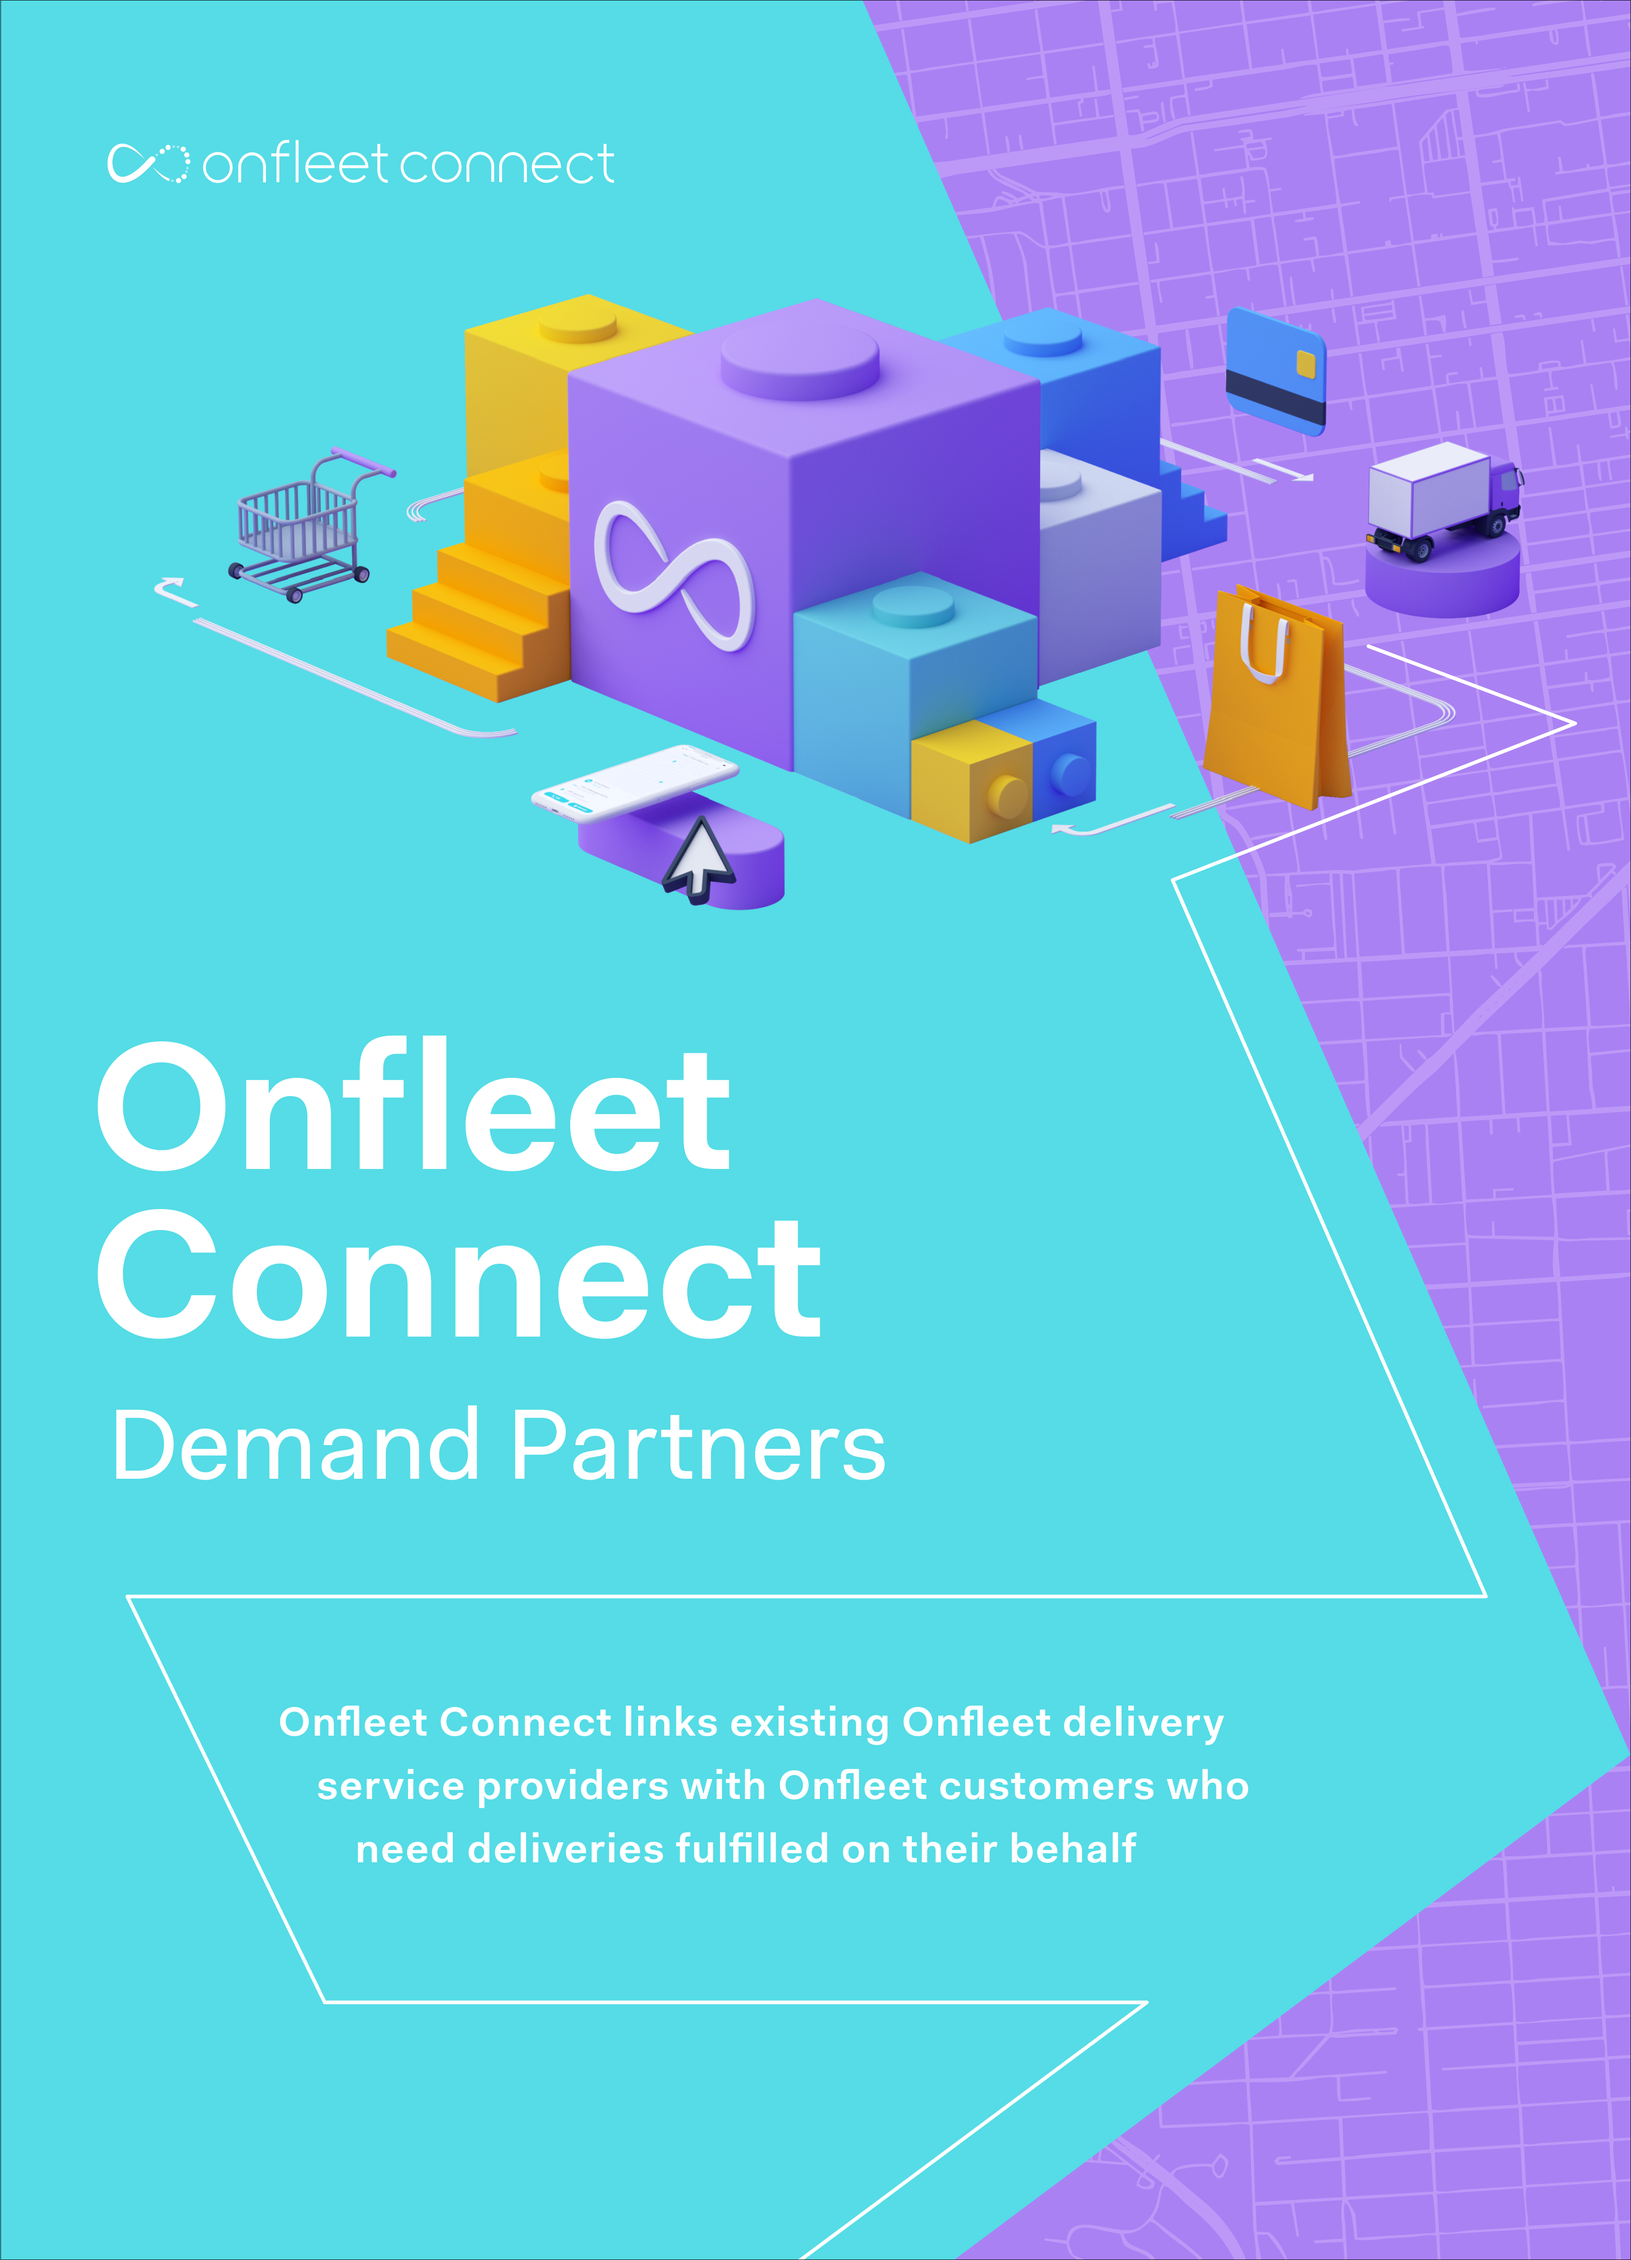
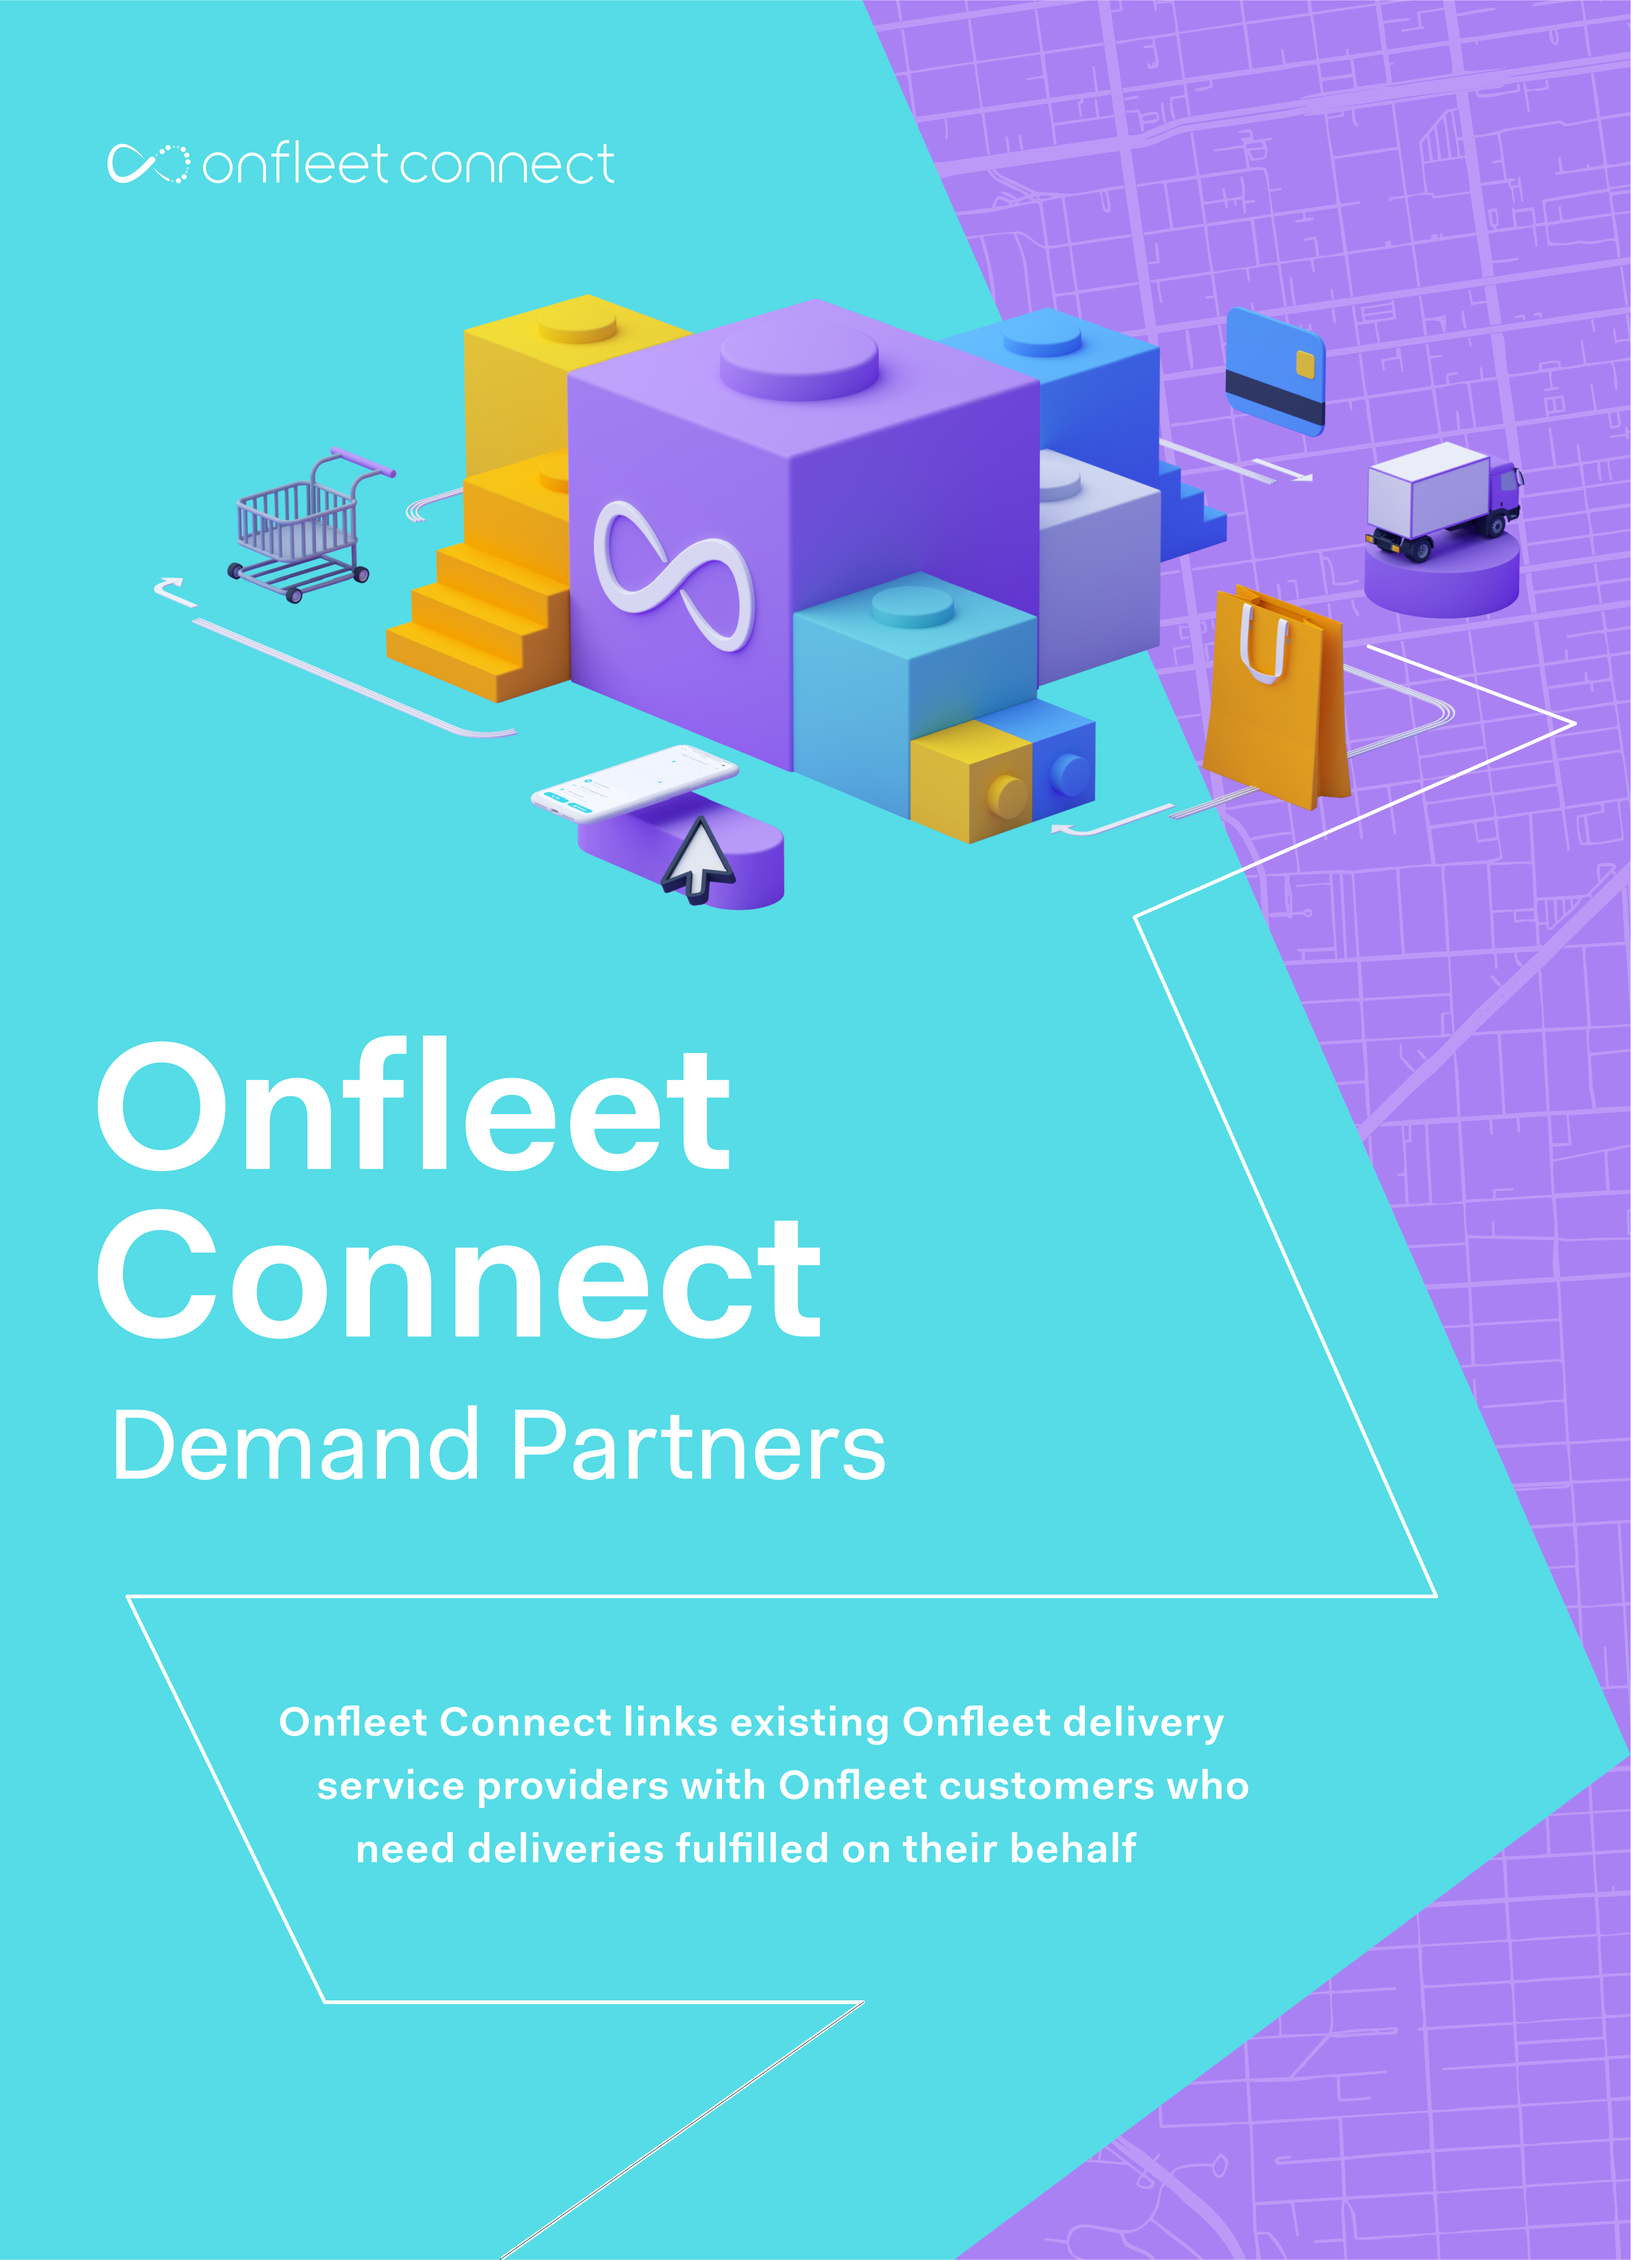
newsletter photos
updating and changing cover

diff --git a/projects/Brand.html b/projects/Brand.html
@@ -98,41 +98,26 @@ We then created a visual indicator to showcase to drivers there were multiple ta
       <p>Comparative/Field analysis: every app analyzed had a scheduling/calendar function, but didn’t offer any much-needed suggestions or prompts. The lacking feature would leave the user confused and second-guessing how to water their specific plant. There needed to be more intuitive features built-in for this app to serve its purpose of reducing cognitive load and alleviate stress.</p>
    
         
-        <div class="example-img">
-        <img src="../assets/Brand/Newsletter1.png" alt="Newsletter first page no outline">
-      </div>
-      <p class="example-caption">2.1 Newsletter 1st page</p>
-     <div class="example-img">
-        <img src="../assets/Brand/Newsletter1.2.png" alt="Newsletter first page outline">
-      </div>
-      <p class="example-caption">2.2 Newsletter 1st page outline</p>
         
      <div class="example-img">
-        <img src="../assets/Brand/Newsletter2.png" alt="Newsletter second page no outline">
+        <img src="../assets/Brand/Newsletter1.2.png" alt="Newsletter first page">
       </div>
-      <p class="example-caption">2.1 Newsletter 2nd page</p>
+      <p class="example-caption">2.2 Newsletter 1st page</p>
+        
      <div class="example-img">
-        <img src="../assets/Brand/Newsletter2.2.png" alt="Newsletter second page outline">
+        <img src="../assets/Brand/Newsletter2.2.png" alt="Newsletter second page">
       </div>
-      <p class="example-caption">2.2 Newsletter 2nd page outline</p>
+      <p class="example-caption">2.2 Newsletter 2nd page</p>
     
      <div class="example-img">
-        <img src="../assets/Brand/Newsletter3.png" alt="Newsletter third page no outline">
-      </div>
-      <p class="example-caption">2.1 Newsletter 3rd page</p>
-     <div class="example-img">
-        <img src="../assets/Brand/Newsletter3.2.png" alt="Newsletter third page outline">
+        <img src="../assets/Brand/Newsletter3.2.png" alt="Newsletter third page">
       </div>
       <p class="example-caption">2.2 Newsletter 3rd page</p>
         
-    <div class="example-img">
-        <img src="../assets/Brand/Newsletter4.png" alt="Newsletter fourth page no outline">
-      </div>
-      <p class="example-caption">2.1 Newsletter 4th page</p>
      <div class="example-img">
-        <img src="../assets/Brand/Newsletter4.3.png" alt="Newsletter fourth page outline">
+        <img src="../assets/Brand/Newsletter4.3.png" alt="Newsletter fourth page">
       </div>
-      <p class="example-caption">2.2 Newsletter 4th page outline</p>
+      <p class="example-caption">2.2 Newsletter 4th page</p>
         
       <!--  <ul>
         <li>1) Waterbot:</li>
